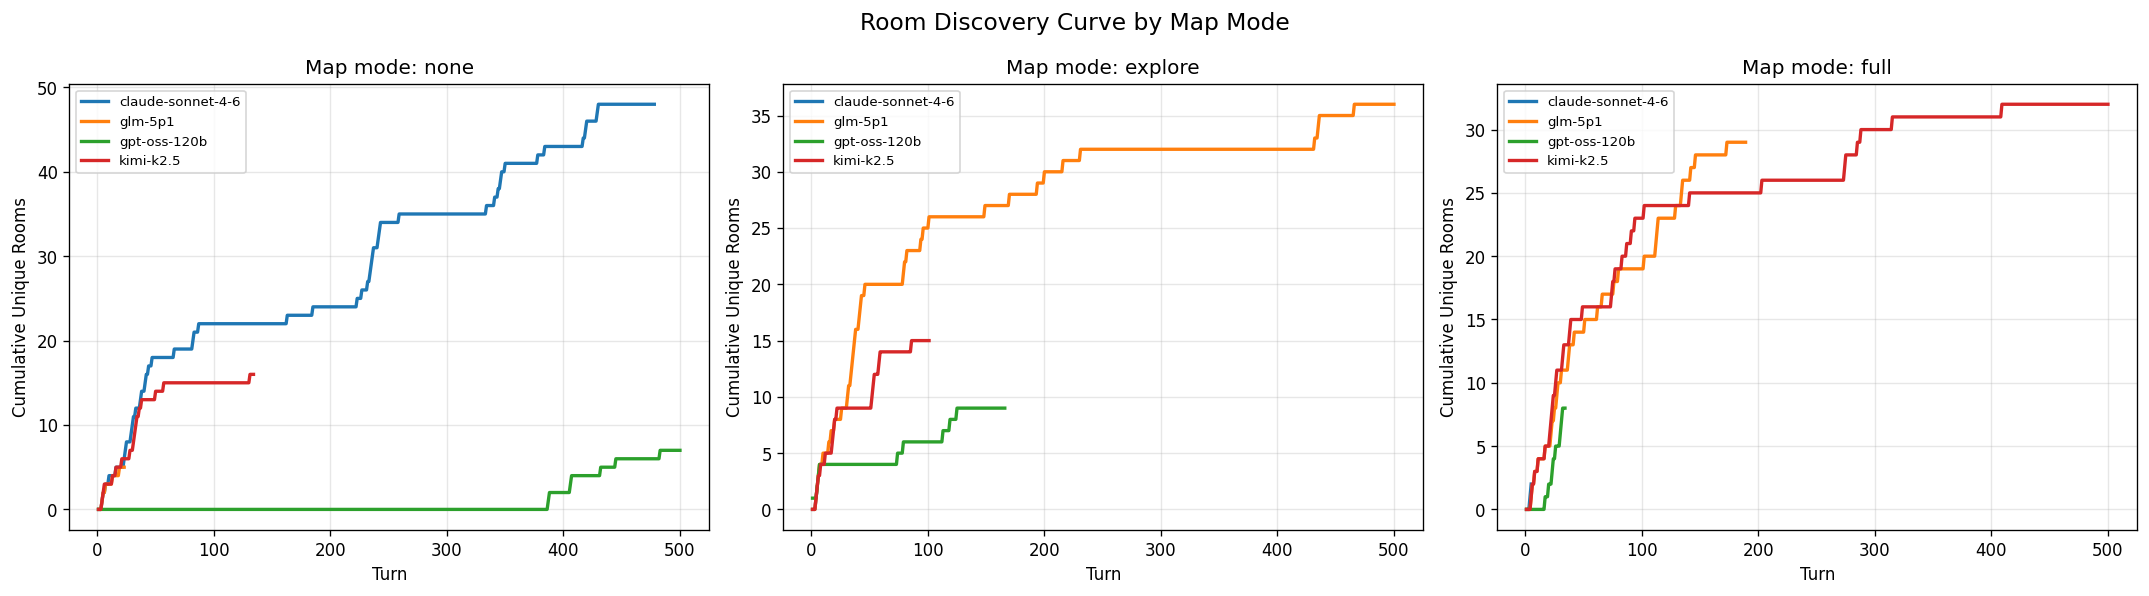
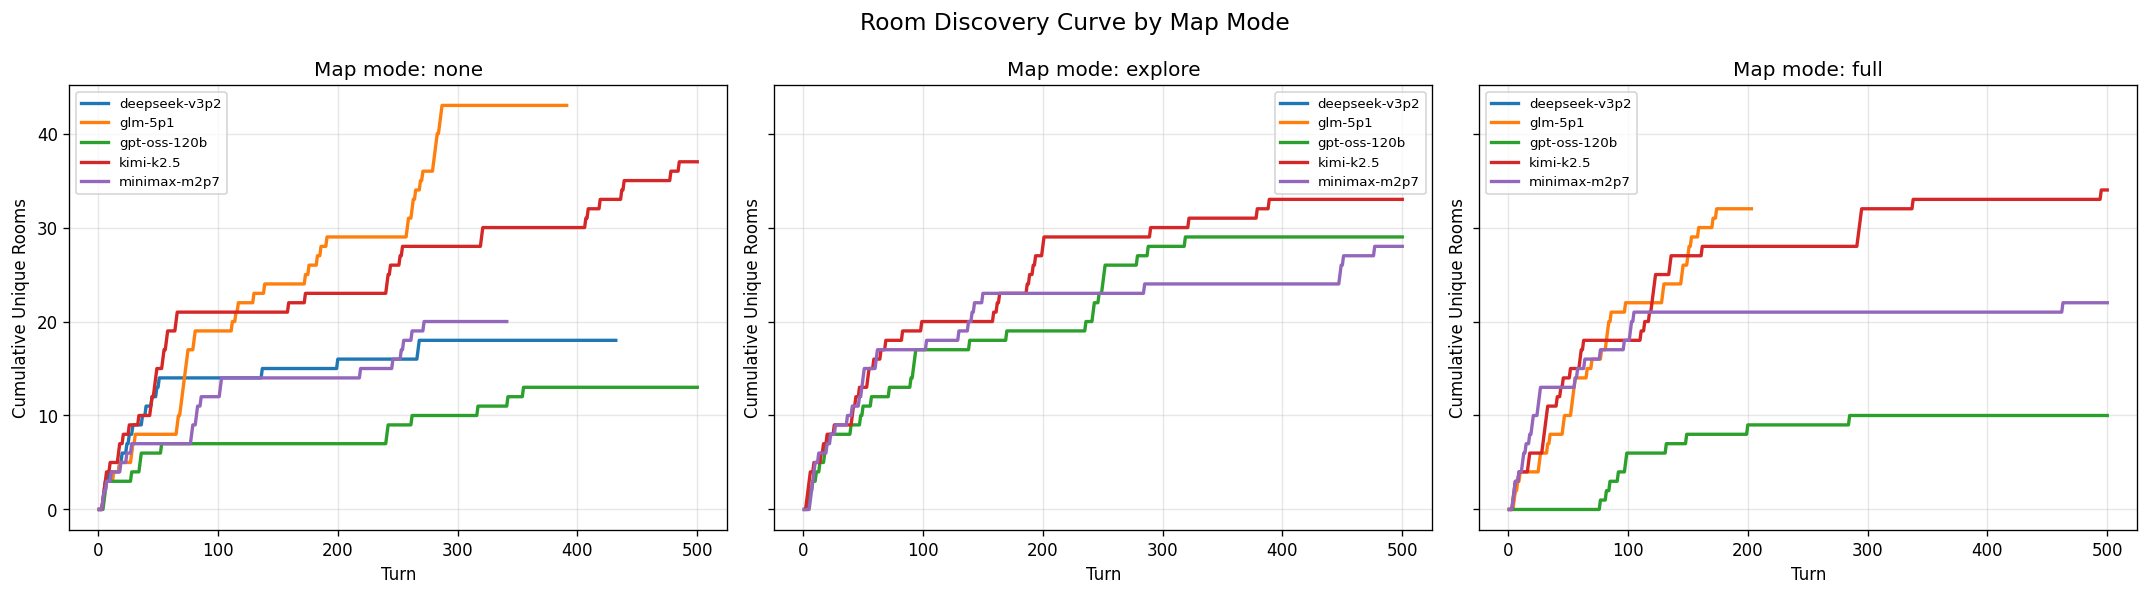
Add room discovery and tokens-per-turn charts to README
Two plots at the top of the README that show what the benchmark
measures at a glance:

1. Room Discovery Curve: cumulative unique rooms over 500 turns per
   model and map mode. Shows which models explore effectively vs.
   which get stuck looping. Shared y-axis across panels so the
   differences between modes are visually comparable.

2. Tokens per Turn: per-turn compute cost for each model. Reveals
   that spending more tokens per decision does not correlate with
   better game performance (kimi-k2.5 scores highest while staying
   cheap; glm-5p1 has 500K+ token spikes with no proportional score
   gain).

Charts regenerated from the full benchmark sweep (6 Fireworks models,
3 map modes, 500 turns each) with the MIN_CHART_TURNS=50 filter so
stub runs and dead-model sessions do not clutter the plots.

diff --git a/README.md b/README.md
@@ -6,6 +6,22 @@ LLMs are bad at text adventures ([arxiv.org/abs/2602.15867](https://arxiv.org/ab
 
 Standard LLM benchmarks measure component skills in isolation. Text adventures measure whether those skills compose into coherent agent behavior over extended interactions. The gap between a model's component scores and its gameplay performance reveals how well it integrates reasoning, memory, and planning which is the core unsolved problem in building capable AI agents.
 
+### Room discovery
+
+How quickly does each model explore Zork's ~40 rooms? Each line shows cumulative unique rooms visited over 500 turns. The three panels correspond to how much spatial help the model gets: `none` (no map tools, pure memory), `explore` (builds its own map with tools), and `full` (pre-loaded complete map).
+
+![Room Discovery Curve by Map Mode](benchmark/results/room_discovery.png)
+
+Models that plateau early have gotten stuck or are looping. The shared y-axis makes it clear that `explore` mode (where the model builds its own map) produces the most exploration, while `full` mode (pre-loaded map) does not automatically translate to more rooms visited. Some models explore *less* with a full map because they fixate on pathfinding to known rooms instead of pushing into new territory.
+
+### Tokens per turn
+
+How much compute does each model spend per game decision? Each bar shows the total tokens (input + output) consumed on a single turn. Spikes indicate turns where the model reasoned extensively or generated long tool-call chains.
+
+![Tokens per Turn by Map Mode](benchmark/results/tokens_per_turn.png)
+
+The cost of spatial reasoning is visible here: `explore` and `full` modes (which have map tools) tend to produce higher per-turn token counts than `none` mode, because every tool call adds tokens. But the relationship between token spend and game performance is not linear. kimi-k2.5 scores highest while staying relatively cheap per turn. glm-5p1 has massive 500K+ token spikes but does not score proportionally higher. Spending more tokens per decision does not mean making better decisions.
+
 ## How it works
 
 An LLM plays Zork through a game session running in Docker (dfrotz + Infocom game files). The harness manages the game I/O, provides tools the LLM can use (self-built map, inventory tracking, notes), and logs everything for analysis.
